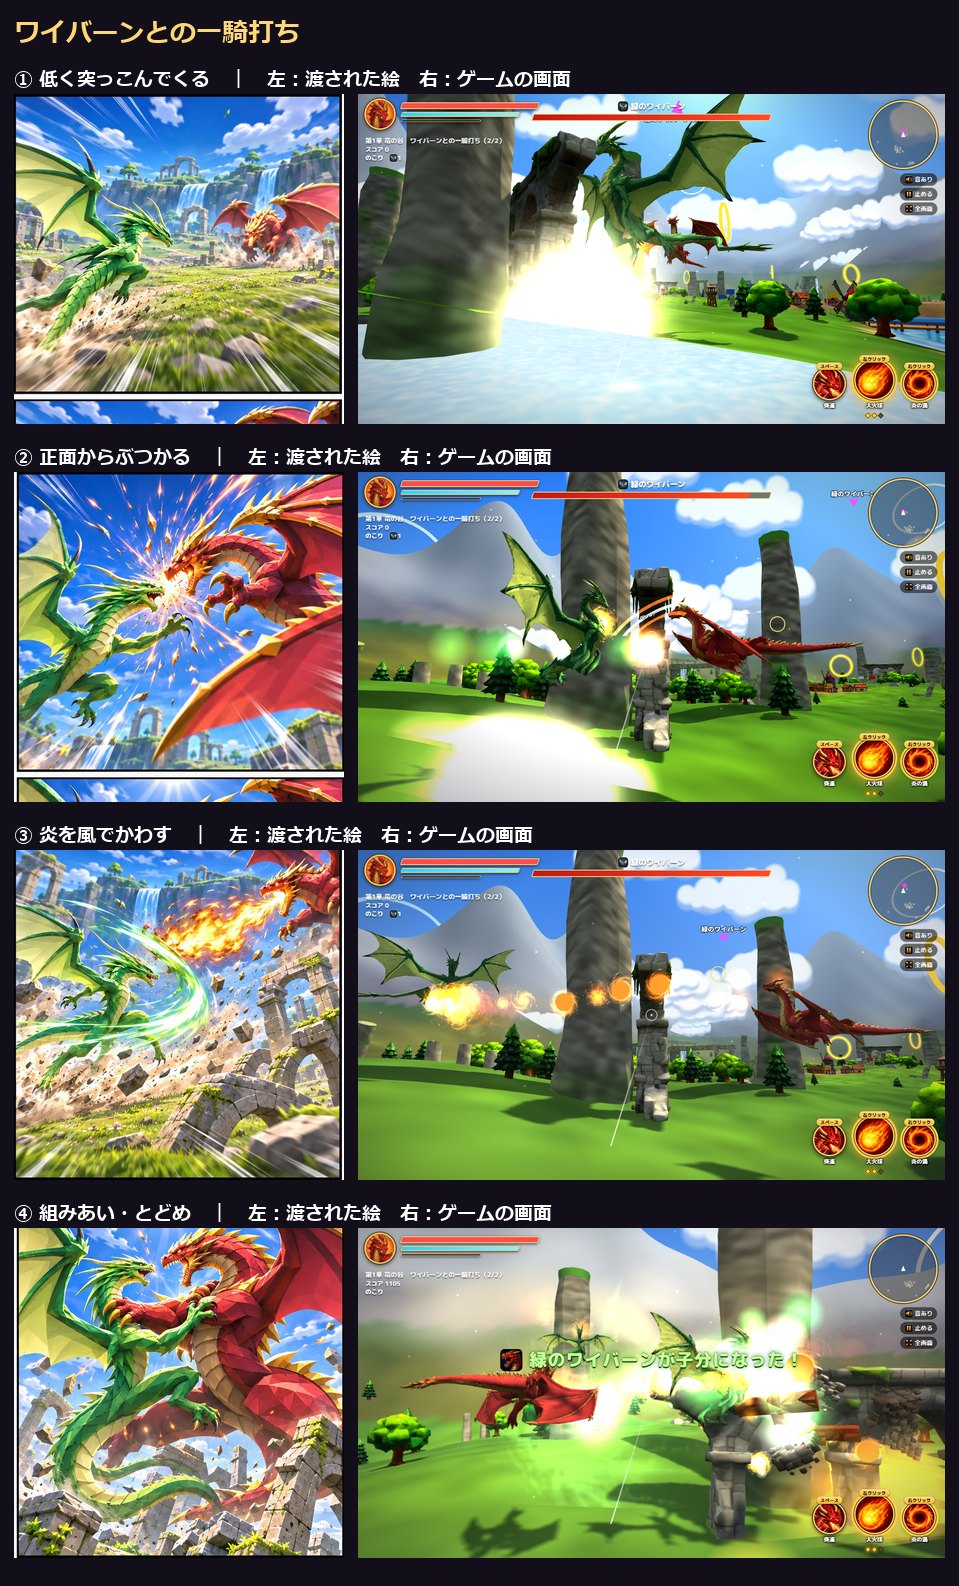
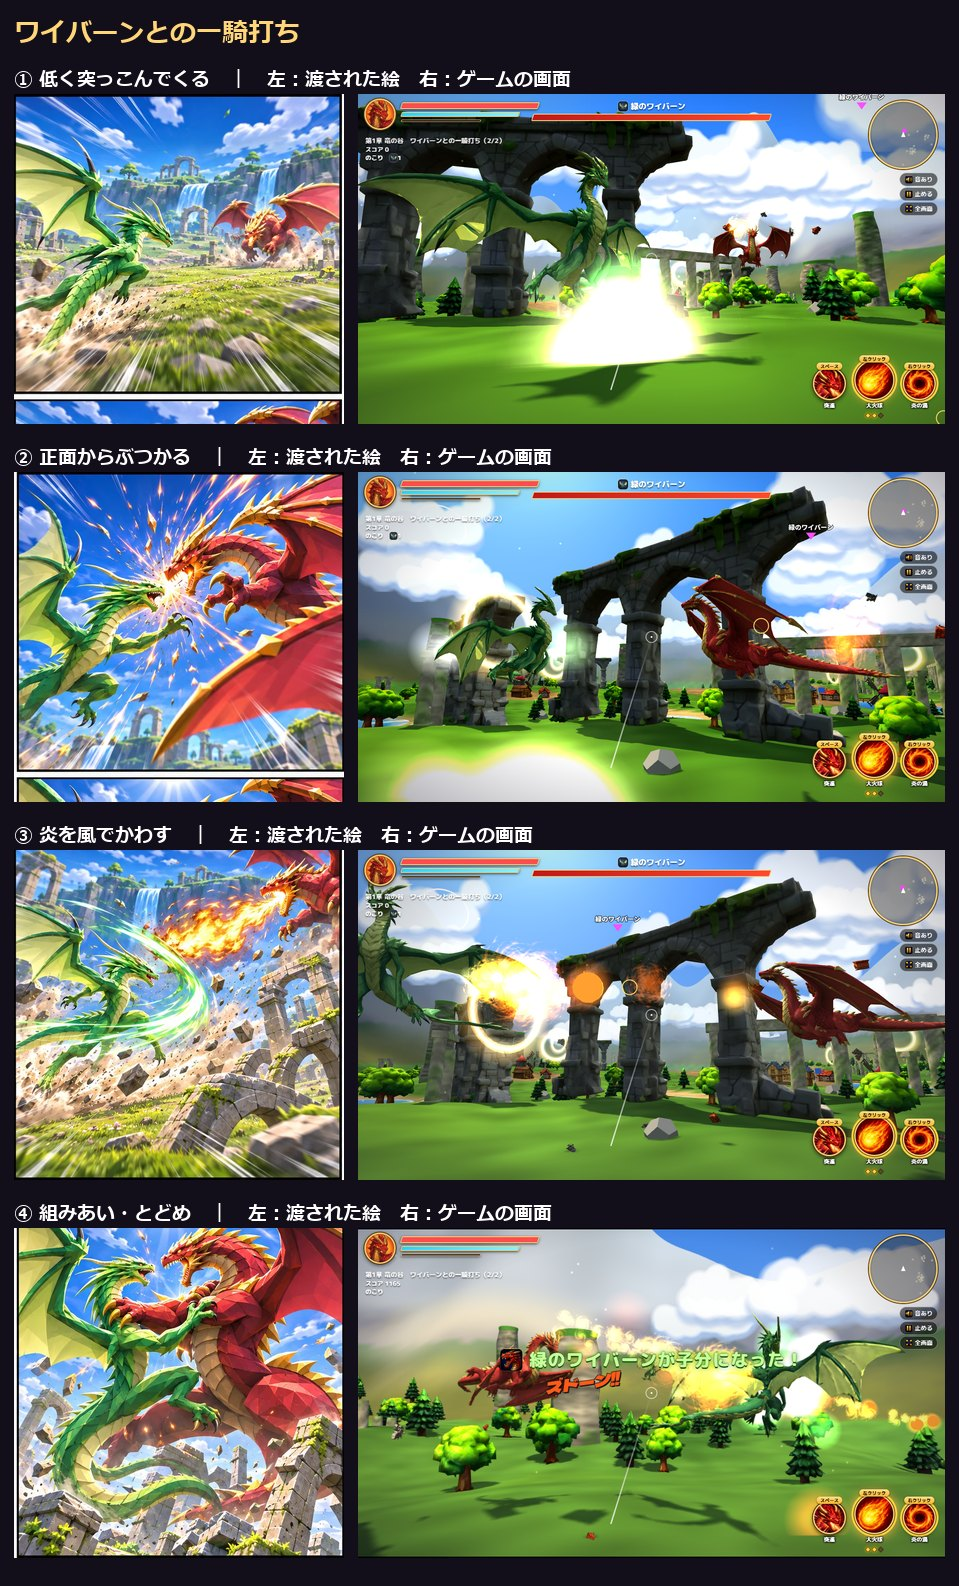
ゲームを更新

diff --git a/index.html b/index.html
@@ -830,7 +830,7 @@ const MODEL={},MIX=[];
 // 自分のキャラだけ別のモデルを使う時の対応（ワイバーン＝緑の方）。読めなかった時は元のモデルにもどる
 const PMODEL={wyvern:'wyvern2'};
 // 3Dモデルの版。モデルを作り直したら数字を変える（古い版がブラウザに残らないように）
-const ASSET_V='1116zt';let LOADED=0,LOADN=0,READY=false;
+const ASSET_V='1116zu';let LOADED=0,LOADN=0,READY=false;
 function loadStep(){LOADED++;const k=Math.round(LOADED/Math.max(1,LOADN)*100)+'%';const b=$('ldp');if(b)b.style.width=k;const n=$('ldn');if(n)n.textContent=k;}
 function loadDone(){if(READY)return;READY=true;$('title').classList.add('ready');$('press').textContent='クリック／タップではじめる';}
 async function loadModels(){try{await loadModels0();}finally{loadDone();}}
@@ -1744,7 +1744,7 @@ const ESHOT=[];
 function eShotOk(pos){const n=performance.now();for(let i=ESHOT.length-1;i>=0;i--)if(n-ESHOT[i].t>450)ESHOT.splice(i,1);
   let c=0;for(const q of PROJ)if(q.from!=='p'&&q.geo!=='arrow')c++;if(c>=10)return false;for(const q of ESHOT)if(q.p.distanceToSquared(pos)<900)return false;ESHOT.push({t:n,p:pos.clone()});return true;}
 function shoot(pos,vel,o){if(o&&o.from!=='p'&&o.geo!=='arrow'&&state==='play'&&!eShotOk(pos))return;const m=new THREE.Mesh(GEO[o.geo||'fire'],o.mat);m.position.copy(pos);m.scale.setScalar((o.size||1)*(o.ball?0.4:1));if(o.fat){m.scale.x*=o.fat;m.scale.y*=o.fat;}scene.add(m);
-  if(FXT.ok&&(!o.geo||o.geo==='fire')&&!o.ball){const fs=new THREE.Sprite(new THREE.SpriteMaterial({map:fxT(0,4),color:(o.col&&o.col[0])||0xffa030,blending:THREE.AdditiveBlending,transparent:true,depthWrite:false}));fs.scale.set(4.4,4.4,1);fs.material.rotation=rnd(0,6.3);m.add(fs);m.userData.fs=fs;}
+  if(FXT.ok&&(!o.geo||o.geo==='fire')&&!o.ball&&!(o.from==='p'&&o.mat===MAT.fire)){const fs=new THREE.Sprite(new THREE.SpriteMaterial({map:fxT(0,4),color:(o.col&&o.col[0])||0xffa030,blending:THREE.AdditiveBlending,transparent:true,depthWrite:false}));fs.scale.set(4.4,4.4,1);fs.material.rotation=rnd(0,6.3);m.add(fs);m.userData.fs=fs;}
   let glow=null;
   if(o.geo==='arrow'){m.add(new THREE.Mesh(GEO.ahead,AMAT.head));m.add(new THREE.Mesh(GEO.afeath,o.from==='p'?AMAT.feath:AMAT.feathR));o.trail=null;}
   else if(o.geo==='bolt'){m.geometry=ZGEO[(Math.random()*ZGEO.length)|0];m.material=ZMAT;glow=new THREE.Sprite(new THREE.SpriteMaterial({map:GT,color:0x7fc8ff,blending:THREE.AdditiveBlending,transparent:true,depthWrite:false,opacity:0.8}));glow.scale.set(5,5,1);m.add(glow);}
@@ -2037,7 +2037,7 @@ function ringPass(r){P.ringT=1.6;{const w=new THREE.Mesh(new THREE.TorusGeometry
   r.cd=16;r.h.visible=false;RINGS.ch++;RINGS.cht=7;const n=RINGS.ch,c=new V3(r.x,r.y,r.z);P.en=Math.min(100,P.en+14);P.hp=Math.min(P.maxHp,P.hp+P.maxHp*0.03);score+=40*n;
   burst(c,26,GOLD,3,26,0.7);glowFlash(c,0xffd860,22,0.4);sfx('heal',null,0.5);ono(c,n>1?`${n}連続！ ＋ゲージ`:'リング！ ＋ゲージ','#ffd84a',36);
   if(!RINGS.tip){RINGS.tip=true;say('💡 ヒント','金の輪をくぐると、必殺ゲージと体力が少したまる。続けてくぐると点が上がる');}}
-function updRings(rdt,t){if((P.ringT||0)>0&&!PAUSED&&!LVUP){P.ringT-=rdt;if(state==='play'&&Math.random()<0.7)burst(tmp.copy(P.pos).addScaledVector(P.vel,-0.03),1,GOLD,1.5,7,0.5);}const g=RINGS.g;if(!g)return;const cave=typeof CAVE!=='undefined'&&CAVE.on,on=state==='play'&&!cave;g.visible=state!=='select'&&!cave;if(RINGS.cht>0){RINGS.cht-=rdt;if(RINGS.cht<=0)RINGS.ch=0;}
+function updRings(rdt,t){if(BRC.m&&BRC.m.visible&&--BRC.k<=0)BRC.m.visible=false;if((P.ringT||0)>0&&!PAUSED&&!LVUP){P.ringT-=rdt;if(state==='play'&&Math.random()<0.7)burst(tmp.copy(P.pos).addScaledVector(P.vel,-0.03),1,GOLD,1.5,7,0.5);}const g=RINGS.g;if(!g)return;const cave=typeof CAVE!=='undefined'&&CAVE.on,on=state==='play'&&!cave;g.visible=state!=='select'&&!cave;if(RINGS.cht>0){RINGS.cht-=rdt;if(RINGS.cht<=0)RINGS.ch=0;}
   for(const r of RINGS.L){if(r.cd>0){if(!PAUSED&&!LVUP)r.cd-=rdt;if(r.cd<=0){r.h.visible=true;r.pd=0;}else continue;}
     r.h.scale.setScalar(1+0.05*Math.sin(t*2.2+r.ph));r.m2.opacity=0.22+0.14*Math.sin(t*3+r.ph);
     if(!on)continue;const dx=P.pos.x-r.x,dy=P.pos.y-r.y,dz=P.pos.z-r.z,d=dx*r.nx+dz*r.nz;
@@ -4294,9 +4294,19 @@ function wyvDuel(){const a=P.yaw,fx=Math.sin(a),fz=Math.cos(a);let x=P.pos.x+fx*
   $('cutin').style.display='none';cutT=0;
   talk([['ME','……今度は同族か。朝から客が多い。'],['💡 ヒント','ワイバーンは突進と風の弾で来る。横によけて、炎を当てよう']]);}
 // 風をまいて横へよける（自分の弾が近づいた時）
+const FBV=new V3(),FBP=new V3(),FBD=new V3(),BRC={m:null,tx:null,k:0};
+// 炎の筒：口から相手まで、先へ行くほど太くなる光る炎（息を出している間だけ）
+function breathCone(m,to){if(!BRC.m){const c=document.createElement('canvas');c.width=64;c.height=256;const x=c.getContext('2d'),g=x.createLinearGradient(0,0,0,256);g.addColorStop(0,'rgba(255,110,30,0)');g.addColorStop(0.3,'rgba(255,130,40,0.5)');g.addColorStop(0.75,'rgba(255,200,80,0.85)');g.addColorStop(1,'rgba(255,255,220,1)');x.fillStyle=g;x.fillRect(0,0,64,256);
+    x.globalCompositeOperation='destination-out';for(let i=0;i<46;i++){x.fillStyle='rgba(0,0,0,'+(0.15+Math.random()*0.35)+')';x.fillRect(Math.random()*64,Math.random()*230,1.5+Math.random()*4,24+Math.random()*70);}
+    const t=new THREE.CanvasTexture(c);t.wrapS=THREE.RepeatWrapping;const geo=new THREE.CylinderGeometry(1,0.16,1,14,1,true);geo.translate(0,0.5,0);BRC.tx=t;
+    BRC.m=new THREE.Mesh(geo,new THREE.MeshBasicMaterial({map:t,transparent:true,blending:THREE.AdditiveBlending,depthWrite:false,side:THREE.DoubleSide,fog:false}));BRC.m.frustumCulled=false;scene.add(BRC.m);}
+  const o=BRC.m,d=FBD.subVectors(to,m),L=d.length()||1,w=1.5+L*0.075;o.visible=true;BRC.k=3;o.position.copy(m);o.quaternion.setFromUnitVectors(UPV,d.multiplyScalar(1/L));o.scale.set(w*(1+0.12*Math.sin(DUN.t*37)),L,w*(1+0.12*Math.cos(DUN.t*29)));BRC.tx.offset.x=(BRC.tx.offset.x+0.037)%1;o.material.opacity=0.6+0.15*Math.sin(DUN.t*23);}
+// 風の斬り：三日月が回りながら広がる
+function windSlash(c,col){for(let i=0;i<3;i++){const m=new THREE.Mesh(new THREE.RingGeometry(4.6+i*1.7,5.9+i*1.7,28,1,rnd(0,6.3),2.4),new THREE.MeshBasicMaterial({color:i===1?0xffffff:col,transparent:true,opacity:0.9,blending:THREE.AdditiveBlending,depthWrite:false,side:THREE.DoubleSide,fog:false}));
+    m.position.copy(c);m.lookAt(cam.position);m.rotateZ(rnd(0,6.3));const sp=rnd(6,10)*(i%2?1:-1);fxAdd(m,0.5,(o,k,dt)=>{o.rotateZ(sp*(dt||0.016));o.scale.setScalar(0.75+k*1.2);o.material.opacity=0.9*(1-k*k);});}}
 function wyvDodge(e,dt){e.dgC=(e.dgC||1.5)-dt;if(e.dgC>0)return;const p=e.mesh.position;
   for(const q of PROJ){if(q.from!=='p')continue;const rel=tmp.subVectors(p,q.m.position);if(rel.length()<36&&rel.dot(q.vel)>0){const sg=Math.random()<0.5?1:-1,sd=tmp2.set(-q.vel.z,0,q.vel.x).normalize().multiplyScalar(sg);
-    e.vel.addScaledVector(sd,95);e.vel.y+=22;e.dgC=EASY?3.2:2.2;for(let j=0;j<10;j++){const c=p.clone().addScaledVector(sd,j*2.6);c.y+=Math.sin(j/9*Math.PI)*5;burst(c,3,WGRN,5,7,0.55);}glowFlash(p.clone(),0x9cff8a,26,0.4);ono(p,'ヒュッ！','#9cff8a',40);sfx('slash',p,0.6);return;}}}
+    e.vel.addScaledVector(sd,95);e.vel.y+=22;e.dgC=EASY?3.2:2.2;for(let j=0;j<10;j++){const c=p.clone().addScaledVector(sd,j*2.6);c.y+=Math.sin(j/9*Math.PI)*5;burst(c,3,WGRN,5,7,0.55);}glowFlash(p.clone(),0x9cff8a,26,0.4);windSlash(cpos(e).clone(),0x7dff6a);ono(p,'ヒュッ！','#9cff8a',40);sfx('slash',p,0.6);return;}}}
 /* ---- 石づくりの広間（第2章・第3章・最終章）：かべ・床・柱・たいまつ・旗・窓・階段・奥の扉 ---- */
 const DUN={on:false,g:null,x0:0,x1:0,z0:0,z1:0,y:0,top:0,t:0,tor:[],ch:[],door:null,tex:{}};
 function dunTex(k){if(DUN.tex[k])return DUN.tex[k];const c=document.createElement('canvas');c.width=c.height=256;const x=c.getContext('2d');
@@ -4396,7 +4406,8 @@ function updDun(dt,rdt){if(!DUN.on)return;DUN.t+=rdt;
   if(state!=='play')return;
   if(dt>0&&P.firing&&(charKey==='dragon'||charKey==='wyvern'||charKey==='ground')){const m=mouthPos(),ad=aimDir();let b=null,bs=1e9;
     for(const e of EN){if(e.dead)continue;const v=tmp.subVectors(cpos(e),m),d=v.length(),an=v.angleTo(ad);if(d>70||an>0.9)continue;const sc=d*(1+an*1.5);if(sc<bs){bs=sc;b=e;}}
-    const to=b?tmp2.copy(cpos(b)):tmp2.copy(m).addScaledVector(ad,30);for(let j=0;j<4;j++){const q=(DUN.t*3+j/4)%1;tmp3.lerpVectors(m,to,q);flame(tmp3,1,1.3+q*3,0.3,null,0,2);}
+    const to=b?tmp2.copy(cpos(b)):tmp2.copy(m).addScaledVector(ad,30);{const sv=tmp3.subVectors(to,m),L=sv.length()||1,ft=charKey==='wyvern'?2:0;sv.multiplyScalar(1/L);FBV.copy(sv).multiplyScalar(L*1.7);
+      for(let j=0;j<12;j++){const q=Math.random(),q2=q*q;FBP.copy(m).addScaledVector(sv,0.6+L*q2*0.92);flame(FBP,1,1.4+q2*5.6,0.26+q*0.12,FBV,ft,1.5+q*5);}if(ft===0)breathCone(m,to);}
     if(b){if(Math.random()<0.6)burst(to,2,SPARK,2.2,30,0.4);if(Math.random()<0.35)burst(to,1,FIRE,2.6,18,0.6,8);
       if(ROCKY.includes(b.type)){if(Math.random()<0.1)debris(to,1,[0x9a8a72,0x7a7468,0xb0a48a],0.55);if(Math.random()<0.12)glowFlash(to.clone(),0x8ad0ff,9,0.22);}}}
   if(dt>0&&DUN.tor.length&&Math.random()<0.5){const q=DUN.tor[(Math.random()*DUN.tor.length)|0];flame(q.p,1,1.5*(q.k||1),0.5,null,0,0.6);if(Math.random()<0.3)burst(q.p,1,FIRE,1.1,5,1.1,9);}

diff --git a/hikaku.html b/hikaku.html
@@ -18,7 +18,7 @@ small{color:#b9afcf}
 </style></head><body><main>
 <a class="back" href="./">▶ ゲームを遊ぶ</a>
 <h1>渡された絵 と ゲーム画面の見比べ</h1>
-<p><small>2026年11月15日　版 1116zs　（左：渡された絵　右：ゲームの画面）</small></p>
+<p><small>2026年11月15日　版 1116zu　（左：渡された絵　右：ゲームの画面）</small></p>
 <p class="lead">結論：表紙の4コマ・洞窟の勇者一行・ワイバーン戦は、絵と同じ向き・同じ並びで撮り直しました（11/15）。谷にアーチの遺跡、広間のかべにアーチ柱を足しました。まだ届いていないのは、兵の数、敵の近さ、画面のボタンの並びです。</p>
 <div class="toc"><a href="#s1">表紙の4コマ</a><a href="#s2">勇者の一行との戦い（洞窟）</a><a href="#s3">ワイバーンとの一騎打ち</a><a href="#s4">地下の迷宮</a><a href="#s5">封印の扉の前のゴーレム戦</a><a href="#s6">魔王の間</a><a href="#s7">こわれる時のかけら（前と今）</a></div>
 <section id="s1"><h2>表紙の4コマ</h2><img src="hikaku.jpg" alt="表紙の4コマ：渡された絵とゲームの画面">
